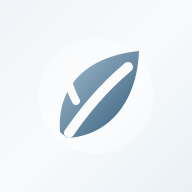
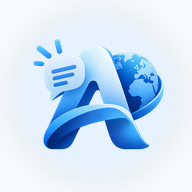
v2

Changed region(s): [[0.1562, 0.1875, 0.875, 0.7812]]

diff --git a/app.js b/app.js
@@ -171,19 +171,22 @@ function render(){
   renderModal();
 }
 function renderAccessGate(){
-  return `<div class="access-gate"><div class="access-card">
-    <div class="access-logo">${icon('assets/icons/ui/alera-logo-mark.svg')}<span>Alera</span></div>
-    <div class="access-icon" aria-hidden="true"><span></span></div>
-    <h1>Acceso a Alera</h1>
-    <p>Introduce la contraseña de este dispositivo. Solo te la pediremos esta primera vez.</p>
-    <form id="access-form" novalidate>
-      <label class="sr-only" for="access-pin">Contraseña</label>
-      <input id="access-pin" class="pin-input" type="password" inputmode="numeric" pattern="[0-9]*" maxlength="4" autocomplete="off" aria-describedby="access-error" placeholder="••••" />
-      <div id="access-error" class="access-error" role="alert"></div>
-      <button class="primary-btn access-submit" type="submit">Entrar</button>
-    </form>
-    <p class="access-note">Este dispositivo quedará recordado mientras no borres los datos del navegador o de la app.</p>
-  </div></div>`;
+  return `<div class="access-gate">
+    <img class="access-backdrop" src="assets/brand/splash-welcome.png" alt="" aria-hidden="true">
+    <div class="access-sheet">
+      <div class="access-sheet-handle" aria-hidden="true"></div>
+      <div class="access-sheet-brand"><img src="assets/brand/logo-mark.png" alt=""><span>Acceso local</span></div>
+      <h1>Introduce tu contraseña</h1>
+      <p>Solo se solicita la primera vez en este dispositivo.</p>
+      <form id="access-form" novalidate>
+        <label class="sr-only" for="access-pin">Contraseña</label>
+        <input id="access-pin" class="pin-input" type="password" inputmode="numeric" pattern="[0-9]*" maxlength="4" autocomplete="off" aria-describedby="access-error" placeholder="••••" />
+        <div id="access-error" class="access-error" role="alert"></div>
+        <button class="primary-btn access-submit" type="submit">Entrar</button>
+      </form>
+      <p class="access-note">El dispositivo queda recordado mientras no borres los datos locales de Alera.</p>
+    </div>
+  </div>`;
 }
 function bindAccessGate(){
   const form=document.getElementById('access-form');
@@ -213,7 +216,7 @@ function bindAccessGate(){
 }
 function renderOnboarding(){
   return `<div class="onboarding"><div class="card onboard-card">
-    <div class="onboard-logo">${icon('assets/icons/ui/alera-logo-mark.svg')}<strong>Alera</strong></div>
+    <div class="onboard-logo"><img src="assets/brand/logo-horizontal.png" alt="Alera"></div>
     <h1>Tu inglés, organizado por semanas.</h1>
     <p>Todo se guarda únicamente en este dispositivo. No hay cuenta, correo ni inicio de sesión.</p>
     <form id="onboard-form">
@@ -247,7 +250,7 @@ function renderShell(){
 }
 function renderTopbar(){
   const p=store.profile;
-  return `<header class="topbar"><div class="brand">Alera</div>
+  return `<header class="topbar"><div class="brand"><img class="brand-logo" src="assets/brand/logo-horizontal.png" alt="Alera"></div>
     <button class="language-pill" onclick="openLanguageInfo()">${escapeHTML(p.language)} · ${escapeHTML(p.level)} ${icon('assets/icons/ui/chevron-down.svg')}</button>
     <button class="avatar" onclick="openProfile()">${p.photo?`<img src="${p.photo}" alt="Perfil">`:escapeHTML(initials(p.name))}</button></header>`;
 }
@@ -275,7 +278,7 @@ function renderWeek(){
   <div class="section-title"><h2>Tus temas de esta semana</h2><button class="link-btn" onclick="setView('knowledge')">Ver todos →</button></div>
   <div class="topic-grid-desktop">${['Grammar','Vocabulary','Pronunciation'].map(c=>grouped[c].length?renderWeekKnowledgeCard(c,grouped[c]):'').join('')}</div>
   ${renderWeekSkillCards(practice)}
-  <div class="quote-card">${icon('assets/icons/ui/alera-logo-mark.svg')}“Pequeños pasos, grandes cambios.”</div>
+  <div class="quote-card">${icon('assets/brand/logo-mark.png')}“Pequeños pasos, grandes cambios.”</div>
   ${week.reason?`<div class="week-reason"><strong>Por qué esta semana:</strong> ${escapeHTML(week.reason)}</div>`:''}`;
 }
 function renderWeekKnowledgeCard(category,items){
@@ -365,7 +368,7 @@ function renderProgress(){
   <div class="skill-summary">${skillStats.map(s=>`<div class="card summary-card"><strong>${s.avg?s.avg.toFixed(1):'—'}</strong><span>${skillNames[s.skill]} · ${s.count} sesiones</span></div>`).join('')}</div>
   <section class="card progress-card"><div class="progress-card-head"><h3>Habilidades</h3><span class="muted-small">Puntuación de sesiones · /10</span></div>${renderSkillsChart(days)}<div class="legend">${[['speaking','var(--coral)'],['writing','var(--petrol-soft)'],['reading','var(--lavender)'],['listening','var(--sage)']].map(([s,c])=>`<span><i style="background:${c}"></i>${skillNames[s]}</span>`).join('')}</div></section>
   <section class="card progress-card"><div class="progress-card-head"><div><h3>Retención de conocimiento</h3><div class="muted-small">Grammar, Vocabulary y Pronunciation aprendidos</div></div><div class="big-stat">${retAvg===null?'—':retAvg+'%'}</div></div>${renderRetentionChart(days)}</section>
-  <div class="quote-card">${icon('assets/icons/ui/alera-logo-mark.svg')}La práctica de hoy construye el idioma de mañana.</div>`;
+  <div class="quote-card">${icon('assets/brand/logo-mark.png')}La práctica de hoy construye el idioma de mañana.</div>`;
 }
 function chartPoints(daysCount, count=8){
   const end=startOfDay(new Date()); let start=daysCount>3650?new Date(Math.min(PLAN_START.getTime(),end.getTime())):addDays(end,-daysCount);
@@ -614,5 +617,7 @@ window.installApp=async()=>{if(!installPrompt)return;installPrompt.prompt();awai
 window.addEventListener('beforeinstallprompt',e=>{e.preventDefault();installPrompt=e;});
 window.addEventListener('appinstalled',()=>{installPrompt=null;toast('Alera instalada');});
 if('serviceWorker' in navigator && location.protocol!=='file:') window.addEventListener('load',()=>navigator.serviceWorker.register('./sw.js').catch(()=>{}));
+const hideBootSplash=()=>{const splash=document.getElementById('boot-splash');if(!splash)return;setTimeout(()=>{splash.classList.add('is-hidden');setTimeout(()=>splash.remove(),320);},720);};
+if(document.readyState==='complete') hideBootSplash(); else window.addEventListener('load',hideBootSplash,{once:true});
 render();
 })();

diff --git a/sw.js b/sw.js
@@ -1,5 +1,62 @@
-const CACHE = 'alera-v5-device-pin';
-const CORE = ['./', './index.html', './styles.css', './app.js', './data.js', './manifest.webmanifest', './assets/icon-192.png', './assets/icon-512.png', './assets/icons/alera-maskable.svg', './assets/icons/tiles/conditionals.svg', './assets/icons/tiles/environment.svg', './assets/icons/tiles/grammar.svg', './assets/icons/tiles/practice.svg', './assets/icons/tiles/reading.svg', './assets/icons/tiles/reported-speech.svg', './assets/icons/tiles/speaking.svg', './assets/icons/tiles/vocabulary.svg', './assets/icons/tiles/writing.svg', './assets/icons/ui/alera-logo-mark.svg', './assets/icons/ui/attention-dots.svg', './assets/icons/ui/calendar.svg', './assets/icons/ui/chevron-down.svg', './assets/icons/ui/chevron-left.svg', './assets/icons/ui/chevron-right.svg', './assets/icons/ui/clock.svg', './assets/icons/ui/comprehension-headphones.svg', './assets/icons/ui/conditionals-nodes.svg', './assets/icons/ui/confidence-star.svg', './assets/icons/ui/decorative-leaves.svg', './assets/icons/ui/environment-sprout.svg', './assets/icons/ui/fluency-wave.svg', './assets/icons/ui/grammar-document.svg', './assets/icons/ui/home.svg', './assets/icons/ui/info.svg', './assets/icons/ui/more-leaf.svg', './assets/icons/ui/overflow.svg', './assets/icons/ui/practice-bars.svg', './assets/icons/ui/practice-use.svg', './assets/icons/ui/profile.svg', './assets/icons/ui/progress-bars.svg', './assets/icons/ui/pronunciation-sound.svg', './assets/icons/ui/reading-book.svg', './assets/icons/ui/reviews.svg', './assets/icons/ui/search.svg', './assets/icons/ui/settings.svg', './assets/icons/ui/speaking-mic.svg', './assets/icons/ui/speech-bubble.svg', './assets/icons/ui/status-check.svg', './assets/icons/ui/trend-line.svg', './assets/icons/ui/vocabulary-book.svg', './assets/icons/ui/writing-pencil.svg'];
+const CACHE = 'alera-v6-official-brand';
+const CORE = [
+  "./README.md",
+  "./app.js",
+  "./assets/brand/logo-horizontal.png",
+  "./assets/brand/logo-mark.png",
+  "./assets/brand/splash-loading.png",
+  "./assets/brand/splash-welcome.png",
+  "./assets/icon-192.png",
+  "./assets/icon-512.png",
+  "./assets/icon-maskable-512.png",
+  "./assets/icons/alera-maskable.svg",
+  "./assets/icons/tiles/conditionals.svg",
+  "./assets/icons/tiles/environment.svg",
+  "./assets/icons/tiles/grammar.svg",
+  "./assets/icons/tiles/practice.svg",
+  "./assets/icons/tiles/reading.svg",
+  "./assets/icons/tiles/reported-speech.svg",
+  "./assets/icons/tiles/speaking.svg",
+  "./assets/icons/tiles/vocabulary.svg",
+  "./assets/icons/tiles/writing.svg",
+  "./assets/icons/ui/alera-logo-mark.svg",
+  "./assets/icons/ui/attention-dots.svg",
+  "./assets/icons/ui/calendar.svg",
+  "./assets/icons/ui/chevron-down.svg",
+  "./assets/icons/ui/chevron-left.svg",
+  "./assets/icons/ui/chevron-right.svg",
+  "./assets/icons/ui/clock.svg",
+  "./assets/icons/ui/comprehension-headphones.svg",
+  "./assets/icons/ui/conditionals-nodes.svg",
+  "./assets/icons/ui/confidence-star.svg",
+  "./assets/icons/ui/decorative-leaves.svg",
+  "./assets/icons/ui/environment-sprout.svg",
+  "./assets/icons/ui/fluency-wave.svg",
+  "./assets/icons/ui/grammar-document.svg",
+  "./assets/icons/ui/home.svg",
+  "./assets/icons/ui/info.svg",
+  "./assets/icons/ui/more-leaf.svg",
+  "./assets/icons/ui/overflow.svg",
+  "./assets/icons/ui/practice-bars.svg",
+  "./assets/icons/ui/practice-use.svg",
+  "./assets/icons/ui/profile.svg",
+  "./assets/icons/ui/progress-bars.svg",
+  "./assets/icons/ui/pronunciation-sound.svg",
+  "./assets/icons/ui/reading-book.svg",
+  "./assets/icons/ui/reviews.svg",
+  "./assets/icons/ui/search.svg",
+  "./assets/icons/ui/settings.svg",
+  "./assets/icons/ui/speaking-mic.svg",
+  "./assets/icons/ui/speech-bubble.svg",
+  "./assets/icons/ui/status-check.svg",
+  "./assets/icons/ui/trend-line.svg",
+  "./assets/icons/ui/vocabulary-book.svg",
+  "./assets/icons/ui/writing-pencil.svg",
+  "./data.js",
+  "./index.html",
+  "./manifest.webmanifest",
+  "./styles.css"
+];
 self.addEventListener('install', e => {
   e.waitUntil(caches.open(CACHE).then(c => c.addAll(CORE)).then(() => self.skipWaiting()));
 });

diff --git a/styles.css b/styles.css
@@ -268,3 +268,38 @@
 .access-card .access-note{font-size:10.5px;line-height:1.35;margin:12px auto 0;color:#8999A6}
 @keyframes pin-shake{0%,100%{transform:translateX(0)}25%{transform:translateX(-4px)}75%{transform:translateX(4px)}}
 @media(max-width:390px){.access-card{padding:20px 17px 18px;border-radius:24px}.access-gate{padding-left:14px;padding-right:14px}.access-card h1{font-size:21px}}
+
+
+/* v6 — official Alera branding supplied by the user */
+html,body{background:#F8FBFF}
+body{background:radial-gradient(circle at 90% 0%,rgba(92,177,255,.09),transparent 24%),radial-gradient(circle at 0% 22%,rgba(170,217,255,.10),transparent 26%),#F8FBFF}
+.brand{display:flex;align-items:center;margin-right:auto;min-width:86px;height:36px;overflow:visible}
+.brand-logo{display:block;width:104px;height:52px;object-fit:contain;object-position:left center;transform:translateX(-8px)}
+.topbar{overflow:visible}
+.quote-card img{width:24px;height:24px;object-fit:contain;opacity:.72}
+
+/* First-run access uses the supplied welcome artwork, then a compact iOS-style sheet. */
+.access-gate{position:relative;min-height:100vh;min-height:100dvh;display:flex;align-items:flex-end;justify-content:center;padding:0;background:#F8FBFF;overflow:hidden}
+.access-backdrop{position:absolute;inset:0;width:100%;height:100%;object-fit:cover;object-position:center;user-select:none;-webkit-user-drag:none}
+.access-sheet{position:relative;z-index:1;width:min(100%,430px);padding:9px 18px calc(18px + env(safe-area-inset-bottom));margin:0 10px 10px;border-radius:26px;background:rgba(255,255,255,.91);border:1px solid rgba(48,128,214,.12);box-shadow:0 18px 50px rgba(31,91,151,.14);backdrop-filter:blur(22px) saturate(1.08);-webkit-backdrop-filter:blur(22px) saturate(1.08);text-align:center}
+.access-sheet-handle{width:36px;height:4px;border-radius:99px;background:rgba(34,82,126,.16);margin:0 auto 10px}
+.access-sheet-brand{display:flex;align-items:center;justify-content:center;gap:6px;color:#446A90;font-size:11px;font-weight:700;text-transform:uppercase;letter-spacing:.08em;margin-bottom:5px}
+.access-sheet-brand img{width:25px;height:25px;object-fit:contain}
+.access-sheet h1{font-size:20px;line-height:1.15;letter-spacing:-.35px;margin:0 0 4px;color:#244D70}
+.access-sheet>p{margin:0 auto 12px;max-width:290px;color:#6D8295;font-size:12px;line-height:1.35}
+.access-sheet .pin-input{height:48px;border-color:rgba(43,126,205,.18);background:rgba(255,255,255,.96);color:#1C4F79}
+.access-sheet .pin-input:focus{border-color:rgba(43,126,205,.55);box-shadow:0 0 0 4px rgba(67,153,237,.10)}
+.access-sheet .access-note{margin:9px auto 0;font-size:10px;color:#8899A8;line-height:1.3}
+.access-sheet .access-error{height:18px;padding-top:4px}
+.access-sheet .access-submit{margin-top:1px;background:linear-gradient(90deg,#2F84D8,#1A65C8);box-shadow:0 7px 18px rgba(36,112,196,.16)}
+
+/* Onboarding uses the full horizontal official logo without oversizing it. */
+.onboarding{background:radial-gradient(circle at 50% 0%,rgba(139,205,255,.18),transparent 33%),#F8FBFF}
+.onboard-logo{height:54px;margin:0 auto 10px;display:flex;justify-content:center;align-items:center}
+.onboard-logo img{width:min(220px,68vw);height:72px;object-fit:contain}
+.onboard-card{background:rgba(255,255,255,.91);border-color:rgba(69,136,196,.12)}
+
+@media(max-width:390px){
+  .brand{min-width:76px;height:34px}.brand-logo{width:94px;height:46px;transform:translateX(-7px)}
+  .access-sheet{margin:0 8px 8px;padding-left:15px;padding-right:15px;border-radius:24px}
+}

diff --git a/index.html b/index.html
@@ -3,18 +3,24 @@
 <head>
   <meta charset="UTF-8" />
   <meta name="viewport" content="width=device-width, initial-scale=1, viewport-fit=cover" />
-  <meta name="theme-color" content="#FBFBFC" />
+  <meta name="theme-color" content="#F8FBFF" />
   <meta name="apple-mobile-web-app-capable" content="yes" />
   <meta name="apple-mobile-web-app-status-bar-style" content="default" />
   <meta name="apple-mobile-web-app-title" content="Alera" />
   <meta name="description" content="Alera — planificación semanal, práctica y revisiones espaciadas para aprender idiomas." />
   <link rel="manifest" href="manifest.webmanifest" />
+  <link rel="preload" as="image" href="assets/brand/splash-loading.png" />
+  <link rel="preload" as="image" href="assets/brand/splash-welcome.png" />
+  <style>
+    #boot-splash{position:fixed;inset:0;z-index:10000;background:#f8fbff;display:grid;place-items:stretch;opacity:1;visibility:visible;transition:opacity .28s ease,visibility .28s ease}#boot-splash.is-hidden{opacity:0;visibility:hidden;pointer-events:none}#boot-splash img{width:100%;height:100%;object-fit:cover;display:block}
+  </style>
   <link rel="icon" href="assets/icon-192.png" />
   <link rel="apple-touch-icon" href="assets/icon-192.png" />
   <link rel="stylesheet" href="styles.css" />
   <title>Alera</title>
 </head>
 <body>
+  <div id="boot-splash" aria-hidden="true"><img src="assets/brand/splash-loading.png" alt=""></div>
   <div id="app"></div>
   <div id="modal-root"></div>
   <div id="toast-root" aria-live="polite"></div>

diff --git a/README.md b/README.md
@@ -63,3 +63,13 @@ La interfaz usa una escala tipográfica más cercana a iOS, tarjetas y cabeceras
 - Tras introducirlo correctamente se guarda `alera_device_access_v1=granted` en `localStorage` y no vuelve a solicitarse en ese dispositivo.
 - Si se borran los datos del sitio/app o se usa otro navegador/dispositivo, la pantalla aparecerá de nuevo.
 - Es una barrera local de conveniencia, no autenticación criptográfica ni protección frente a alguien con acceso a los archivos/código de la PWA.
+
+
+## Branding oficial v6
+
+- Se han integrado los cuatro recursos de marca proporcionados: isotipo, logo horizontal y las dos pantallas verticales.
+- `splash-loading.png` aparece al arrancar la PWA.
+- `splash-welcome.png` sirve de fondo en el acceso PIN del primer dispositivo.
+- El logo horizontal se usa de forma compacta en la cabecera y onboarding.
+- El isotipo oficial genera los iconos PWA de 192/512 px y la variante maskable.
+- Cache del Service Worker: `alera-v6-official-brand`.
